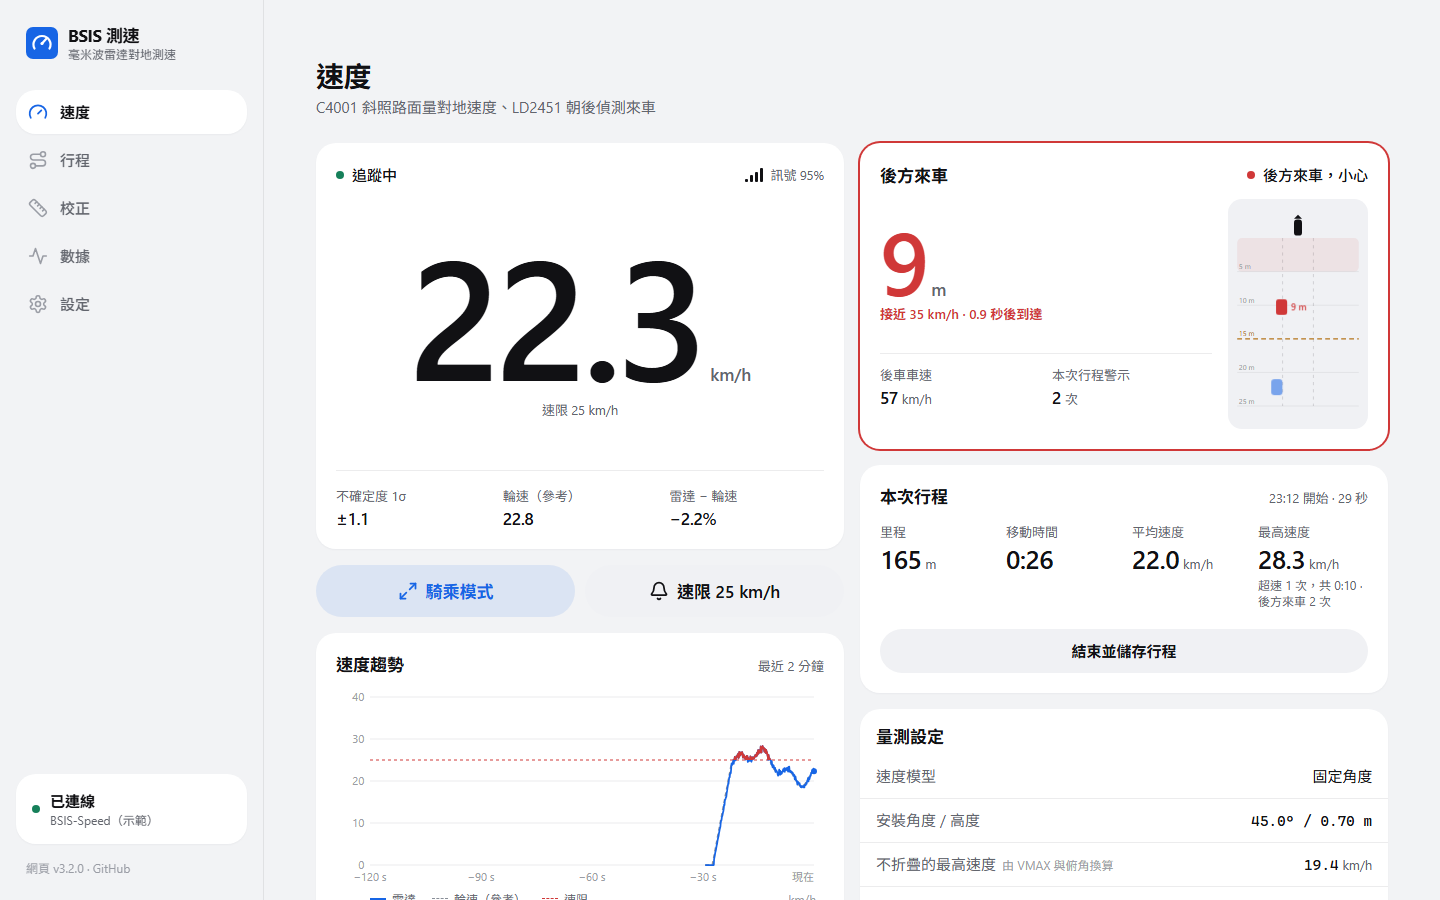
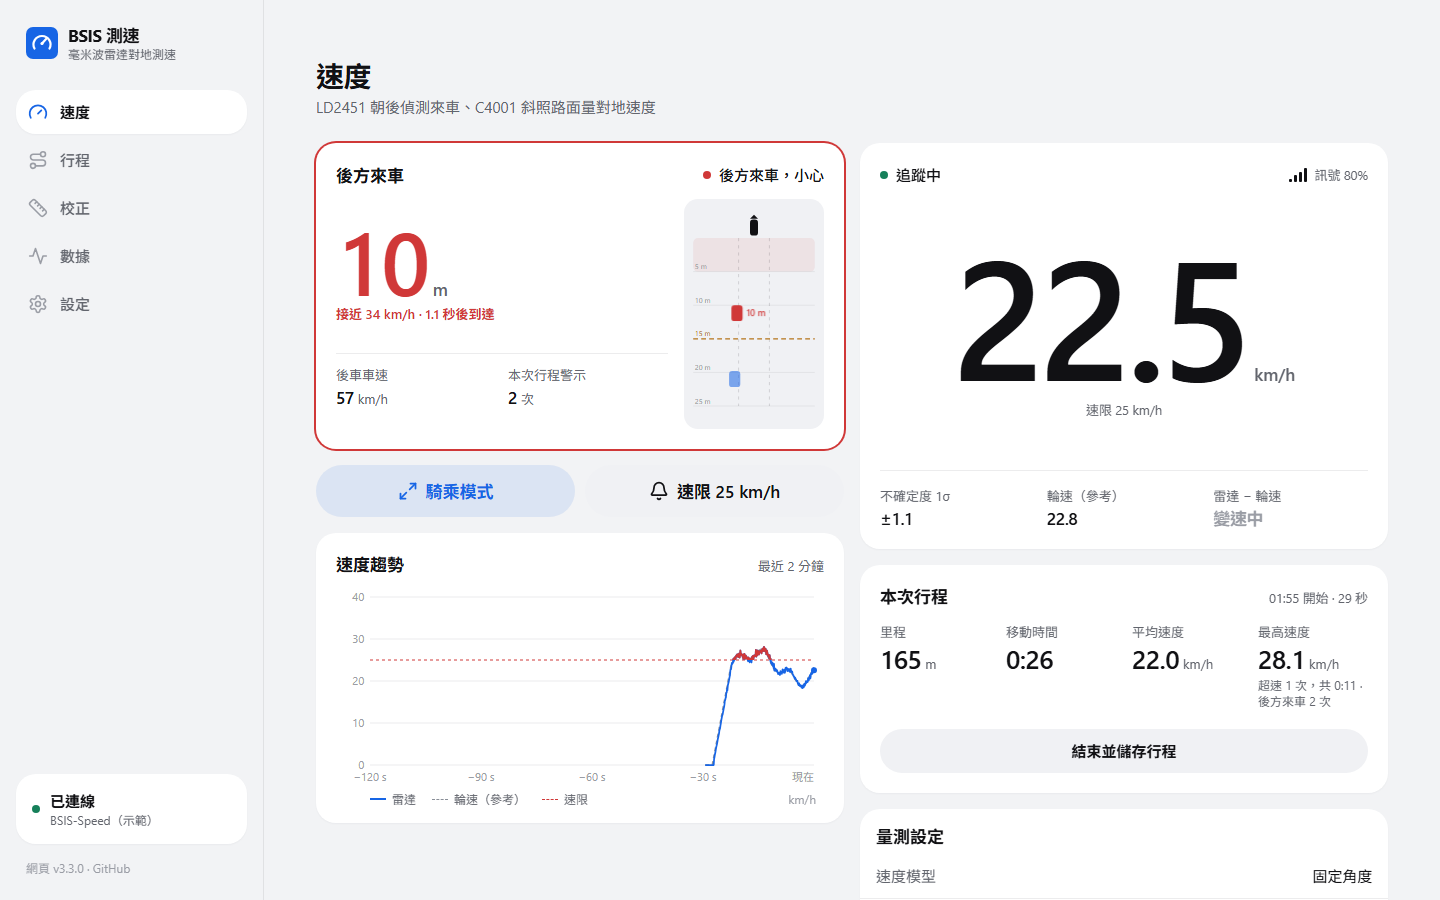
網頁 v3.3.0：速度頁改成後方來車在最上面、車速在下面
專題主題是車輛盲點（後方來車）偵測，所以速度頁的後方來車卡片和對地速度卡片對調：
- 手機：後方來車 → 騎乘模式／速限 → 車速 → 本次行程 → 速度趨勢
- 電腦：左欄後方來車＋速度趨勢，右欄車速＋本次行程＋量測設定
- 韌體沒有後方雷達（3.0）時不顯示後方卡片，車速回到最上面
- 只動版面，警示規則不變；騎乘模式不變

重拍速度頁截圖（docs/images、public/screenshots），後方來車截圖不再捲動；
README 拿掉和首頁重複的後方來車截圖，更新圖說與 manifest 標籤。

diff --git a/web/src/ui/features/speed/SpeedPage.tsx b/web/src/ui/features/speed/SpeedPage.tsx
@@ -1,6 +1,6 @@
 /**
- * 【速度】主畫面：對地速度（大字）、量測狀態、超速警示、後方來車、騎乘模式、本次行程、速度趨勢圖。
- * 騎車時手機裝在龍頭上：最重要的數字最大、其他資訊安靜地放在下面。超速時數字與外框變紅；
+ * 【速度】主畫面：後方來車（最上面）、對地速度（大字）、量測狀態、超速警示、騎乘模式、本次行程、速度趨勢圖。
+ * 專題主題是後方來車（盲點）偵測，所以後方來車卡片放第一個，對地速度放在它下面（電腦版在右欄最上面）。超速時數字與外框變紅；
  * 後方來車卡片在注意時外框變黃、危險時變紅。
  */
 import { useState } from 'react';
@@ -264,11 +264,13 @@ function useRearSupported(): boolean {
 export function SpeedPage() {
   const connected = useRadar((r) => r.connection.status === 'connected');
   const rear = useRearSupported();
-  // 電腦版兩欄：左邊速度＋趨勢圖、右邊行程＋量測設定；手機一欄：速度 → 行程 → 趨勢圖
+  // 專題主題是後方來車（盲點）偵測，所以後方來車放最上面、車速放在它原本的位置：
+  // 電腦版兩欄：左邊後方來車＋趨勢圖、右邊速度＋行程＋量測設定；手機一欄：後方來車 → 速度 → 行程 → 趨勢圖。
+  // 韌體沒有後方雷達（3.0）時不顯示後方卡片，速度回到最上面。
   const desktop = useMediaQuery(DESKTOP);
   return (
     <>
-      <PageHeader title="速度" description="C4001 斜照路面量對地速度、LD2451 朝後偵測來車" />
+      <PageHeader title="速度" description="LD2451 朝後偵測來車、C4001 斜照路面量對地速度" />
       <DeviceNotices />
       {!connected && (
         <div className="mb-4">
@@ -277,13 +279,13 @@ export function SpeedPage() {
       )}
       <div className="grid gap-4 lg:grid-cols-2 lg:items-start">
         <div className="grid gap-3 lg:gap-4">
-          <SpeedHero />
+          {rear ? <RearCard /> : <SpeedHero />}
           <QuickActions />
-          {!desktop && rear && <RearCard />}
+          {!desktop && rear && <SpeedHero />}
           {desktop && <ChartCard />}
         </div>
         <div className="grid gap-4">
-          {desktop && rear && <RearCard />}
+          {desktop && rear && <SpeedHero />}
           <TripCard />
           {!desktop && <ChartCard />}
           <MeasurementCard />

diff --git a/CLAUDE.md b/CLAUDE.md
@@ -19,7 +19,7 @@
 - `web/`：網頁（React + TypeScript + Vite），`npm test`、`npm run lint`、`npm run build`。這台電腦 2026-11 沒有 Node.js（`C:\Program Files\nodejs` 不存在）：用 VS Code 內建的 Node，`ELECTRON_RUN_AS_NODE=1 "%LOCALAPPDATA%\Programs\Microsoft VS Code\Code.exe" node_modules/vitest/vitest.mjs run`（tsc、eslint、vite 同理，跑 `node_modules` 裡的腳本）。網頁的主版本要和韌體相同（`FIRMWARE_MAJOR`），不同時會提示
   - 設計語言和 Lodestar（`C:\GitHub\lodestar`）統一：同樣的 token 名稱（`bg`、`surface`、`ink`、`muted`、`faint`、`line`、`tint`）、大標題頁面、卡片 20 px 圓角、膠囊按鈕、底部面板、浮動分頁列；BSIS 的重點色是藍（`#1765e5`）。仍然不用漸層、光暈、彩色圖示底；只有浮在內容上的導覽用半透明材質。元件在 `web/src/ui/kit`、基準在 `web/src/index.css`，頁面在 `ui/features`，外框在 `ui/shell`
   - 五個分頁：速度、行程、校正、數據、設定，加上騎乘模式（`#/ride`）；手機是浮動分頁列，電腦（≥ 1024 px）是左欄 + 雙欄；分頁同步到網址 `#/speed` 等
-  - 後方來車：速度頁 `RearCard`、騎乘模式右側直條（`ui/widgets/RearRadar`）、校正頁 `RearPanel`、設定頁「後方來車警示」、數據頁「後方雷達」；提示規則在 `domain/rear.ts`（注意柔和兩聲、危險急促四聲每 1.5 秒重複）。資料中斷或後方雷達離線時絕不顯示「安全」
+  - 後方來車：速度頁 `RearCard`（3.3 起放在最上面、對地速度在它下面，因為專題主題是盲點偵測）、騎乘模式右側直條（`ui/widgets/RearRadar`）、校正頁 `RearPanel`、設定頁「後方來車警示」、數據頁「後方雷達」；提示規則在 `domain/rear.ts`（注意柔和兩聲、危險急促四聲每 1.5 秒重複）。資料中斷或後方雷達離線時絕不顯示「安全」
   - PWA：用瀏覽器打開就提醒安裝（規則在 `infrastructure/pwa/install.ts`）；`public/sw.js` 照建置產生的 `precache.json` 離線快取；新版本靠 `/version.json` 比對，不自動重新載入（會中斷藍牙）
   - 截圖：`npm run screenshots`（`scripts/screenshots.mjs`，DevTools Protocol 模擬手機；先 `npm run dev -- --port 5180`）
   - 示範模式 `?demo`（`infrastructure/transport/DemoTransport.ts`）：不需要硬體，也用來產生 `docs/images` 的截圖。後方來車照固定時刻表出現（約 19.5 秒注意、29.5 秒危險、75 秒沒有車），截圖才穩定

diff --git a/README.md b/README.md
@@ -11,13 +11,12 @@ ESP32 同時讀兩顆 24 GHz 毫米波雷達，以藍牙送到網頁顯示：
 3.0 時 C4001 由「後方來車偵測」改為「對地測速」；3.1 再加上 LD2451 專門偵測後方來車。2.x 舊版保留在 git 歷史（韌體 2.4.0，commit `8a5c3b6`）。
 
 <p align="center">
-  <img src="docs/images/phone-speed.png" width="200" alt="手機版速度頁（深色）">
-  <img src="docs/images/phone-rear-caution.png" width="200" alt="後方來車卡片：11 m、接近 12 km/h">
+  <img src="docs/images/phone-speed.png" width="200" alt="手機版速度頁：最上面是後方來車（12 m、注意），下面是對地速度">
   <img src="docs/images/phone-ride-rear.png" width="200" alt="騎乘模式：後方來車時直條與邊框變紅">
   <img src="docs/images/phone-ride-alert.png" width="200" alt="騎乘模式：超速時整個畫面變紅">
 </p>
 <p align="center">
-  <img src="docs/images/desktop-speed.png" width="760" alt="電腦版速度頁：對地速度、後方來車、本次行程、速度趨勢">
+  <img src="docs/images/desktop-speed.png" width="760" alt="電腦版速度頁：後方來車、對地速度、本次行程、速度趨勢">
 </p>
 <p align="center"><sub>截圖為示範模式（<code>?demo</code>）的模擬資料。</sub></p>
 
